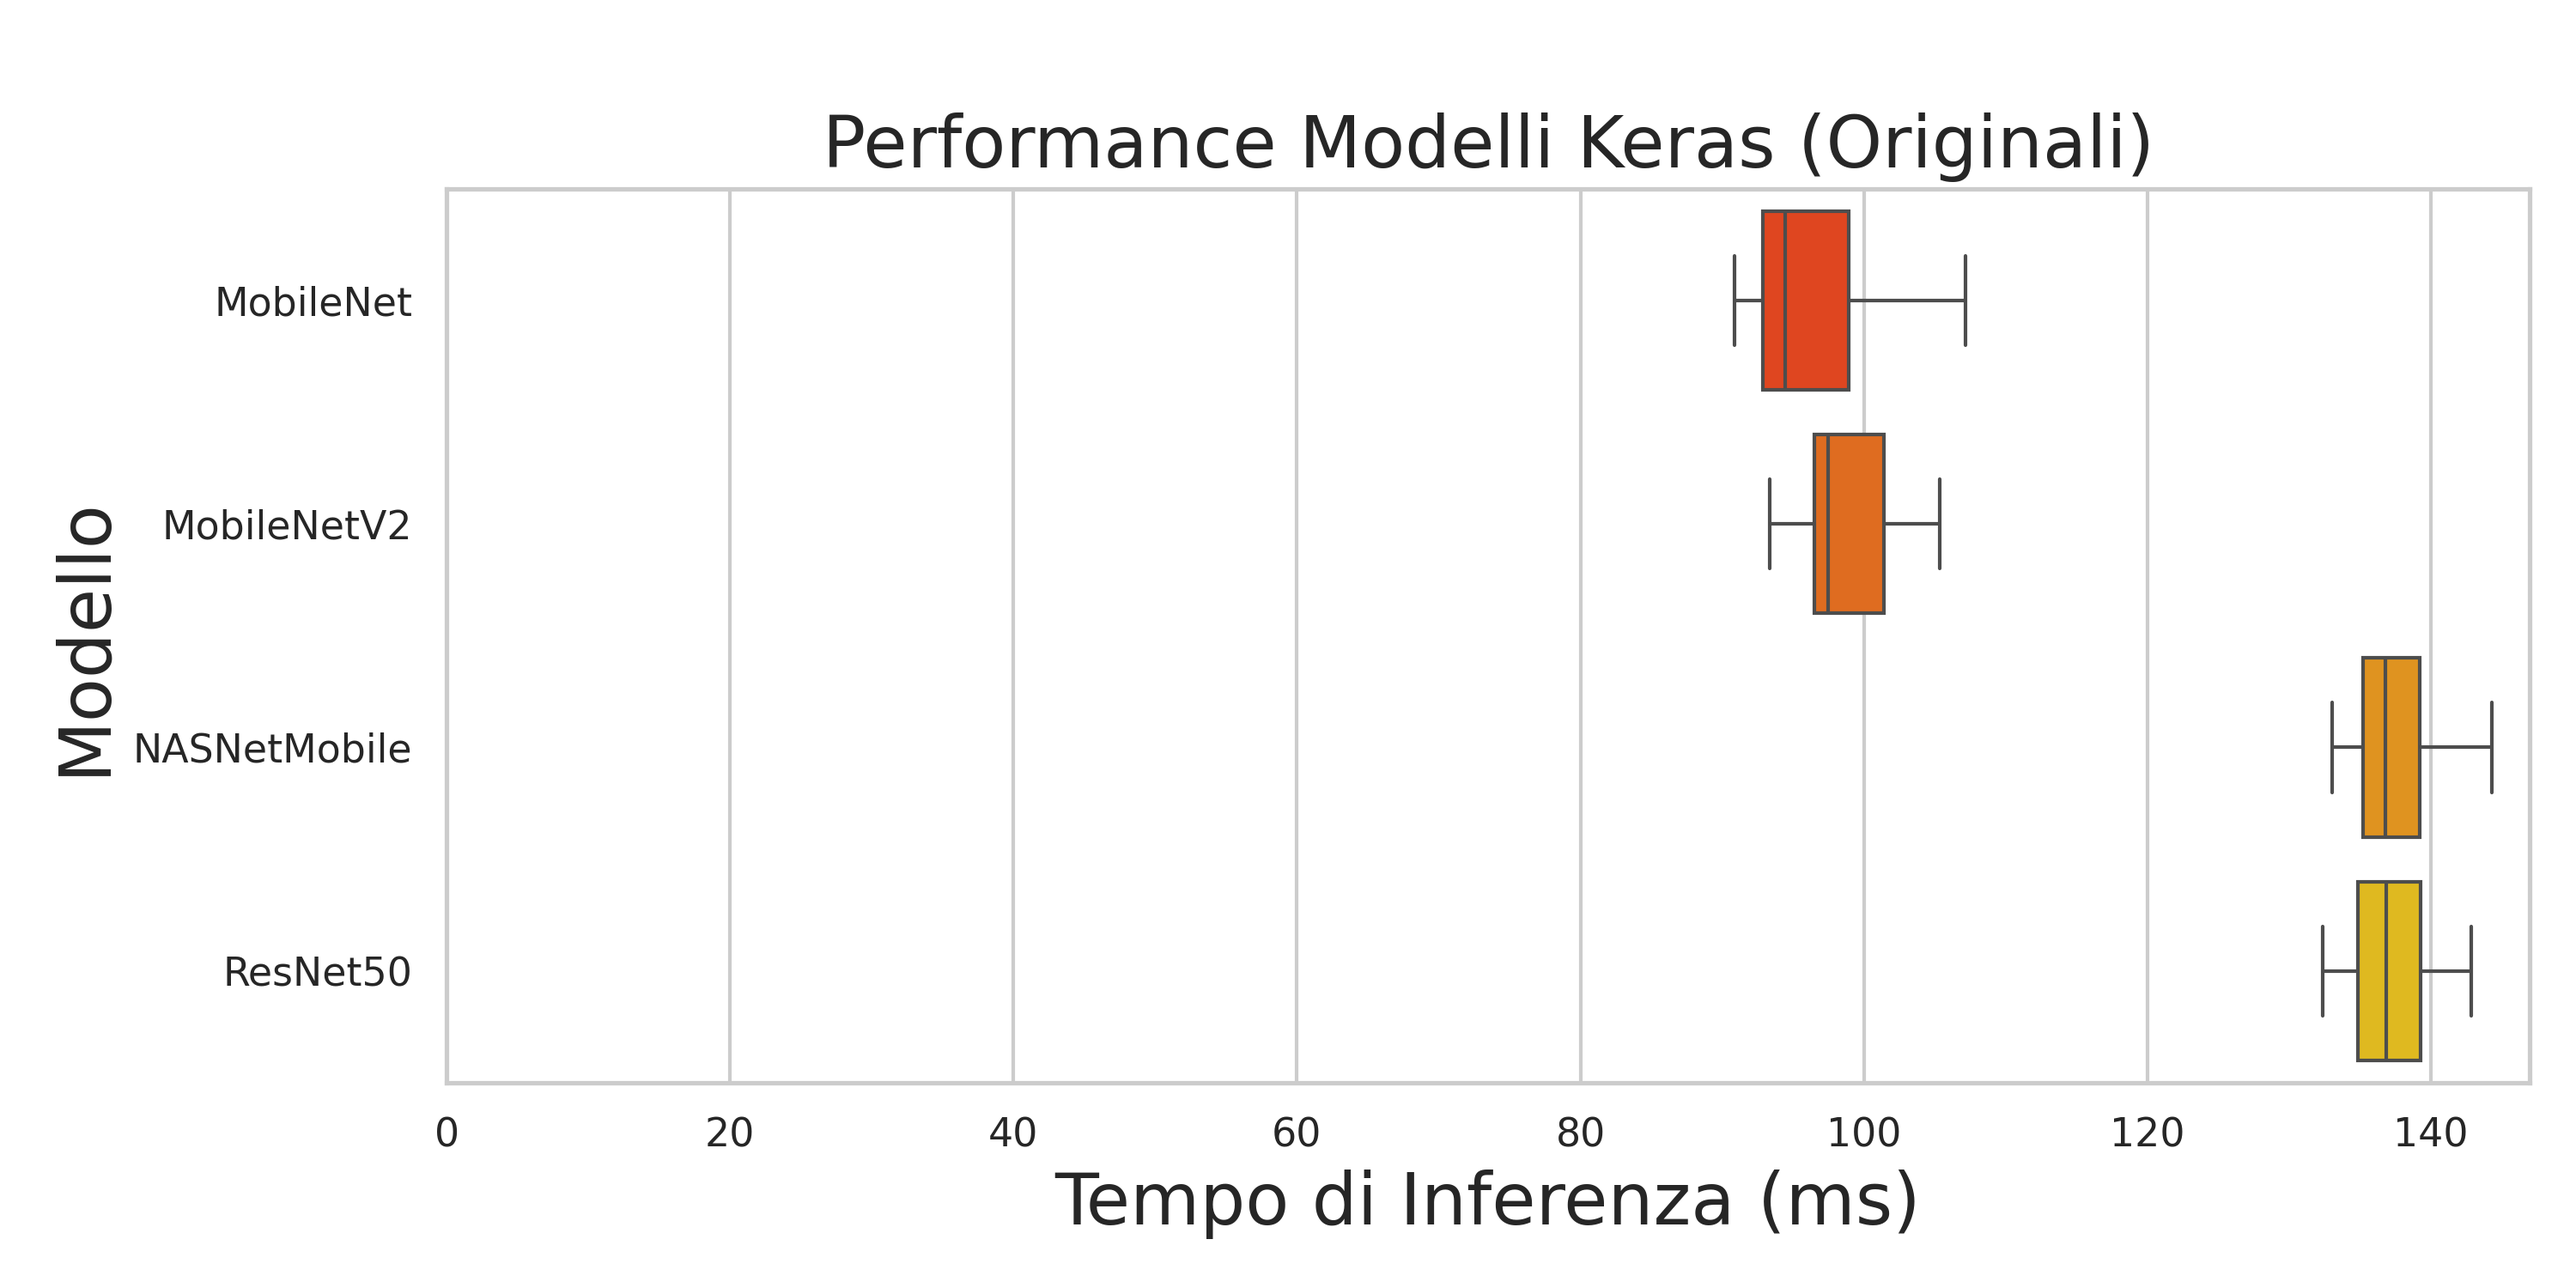
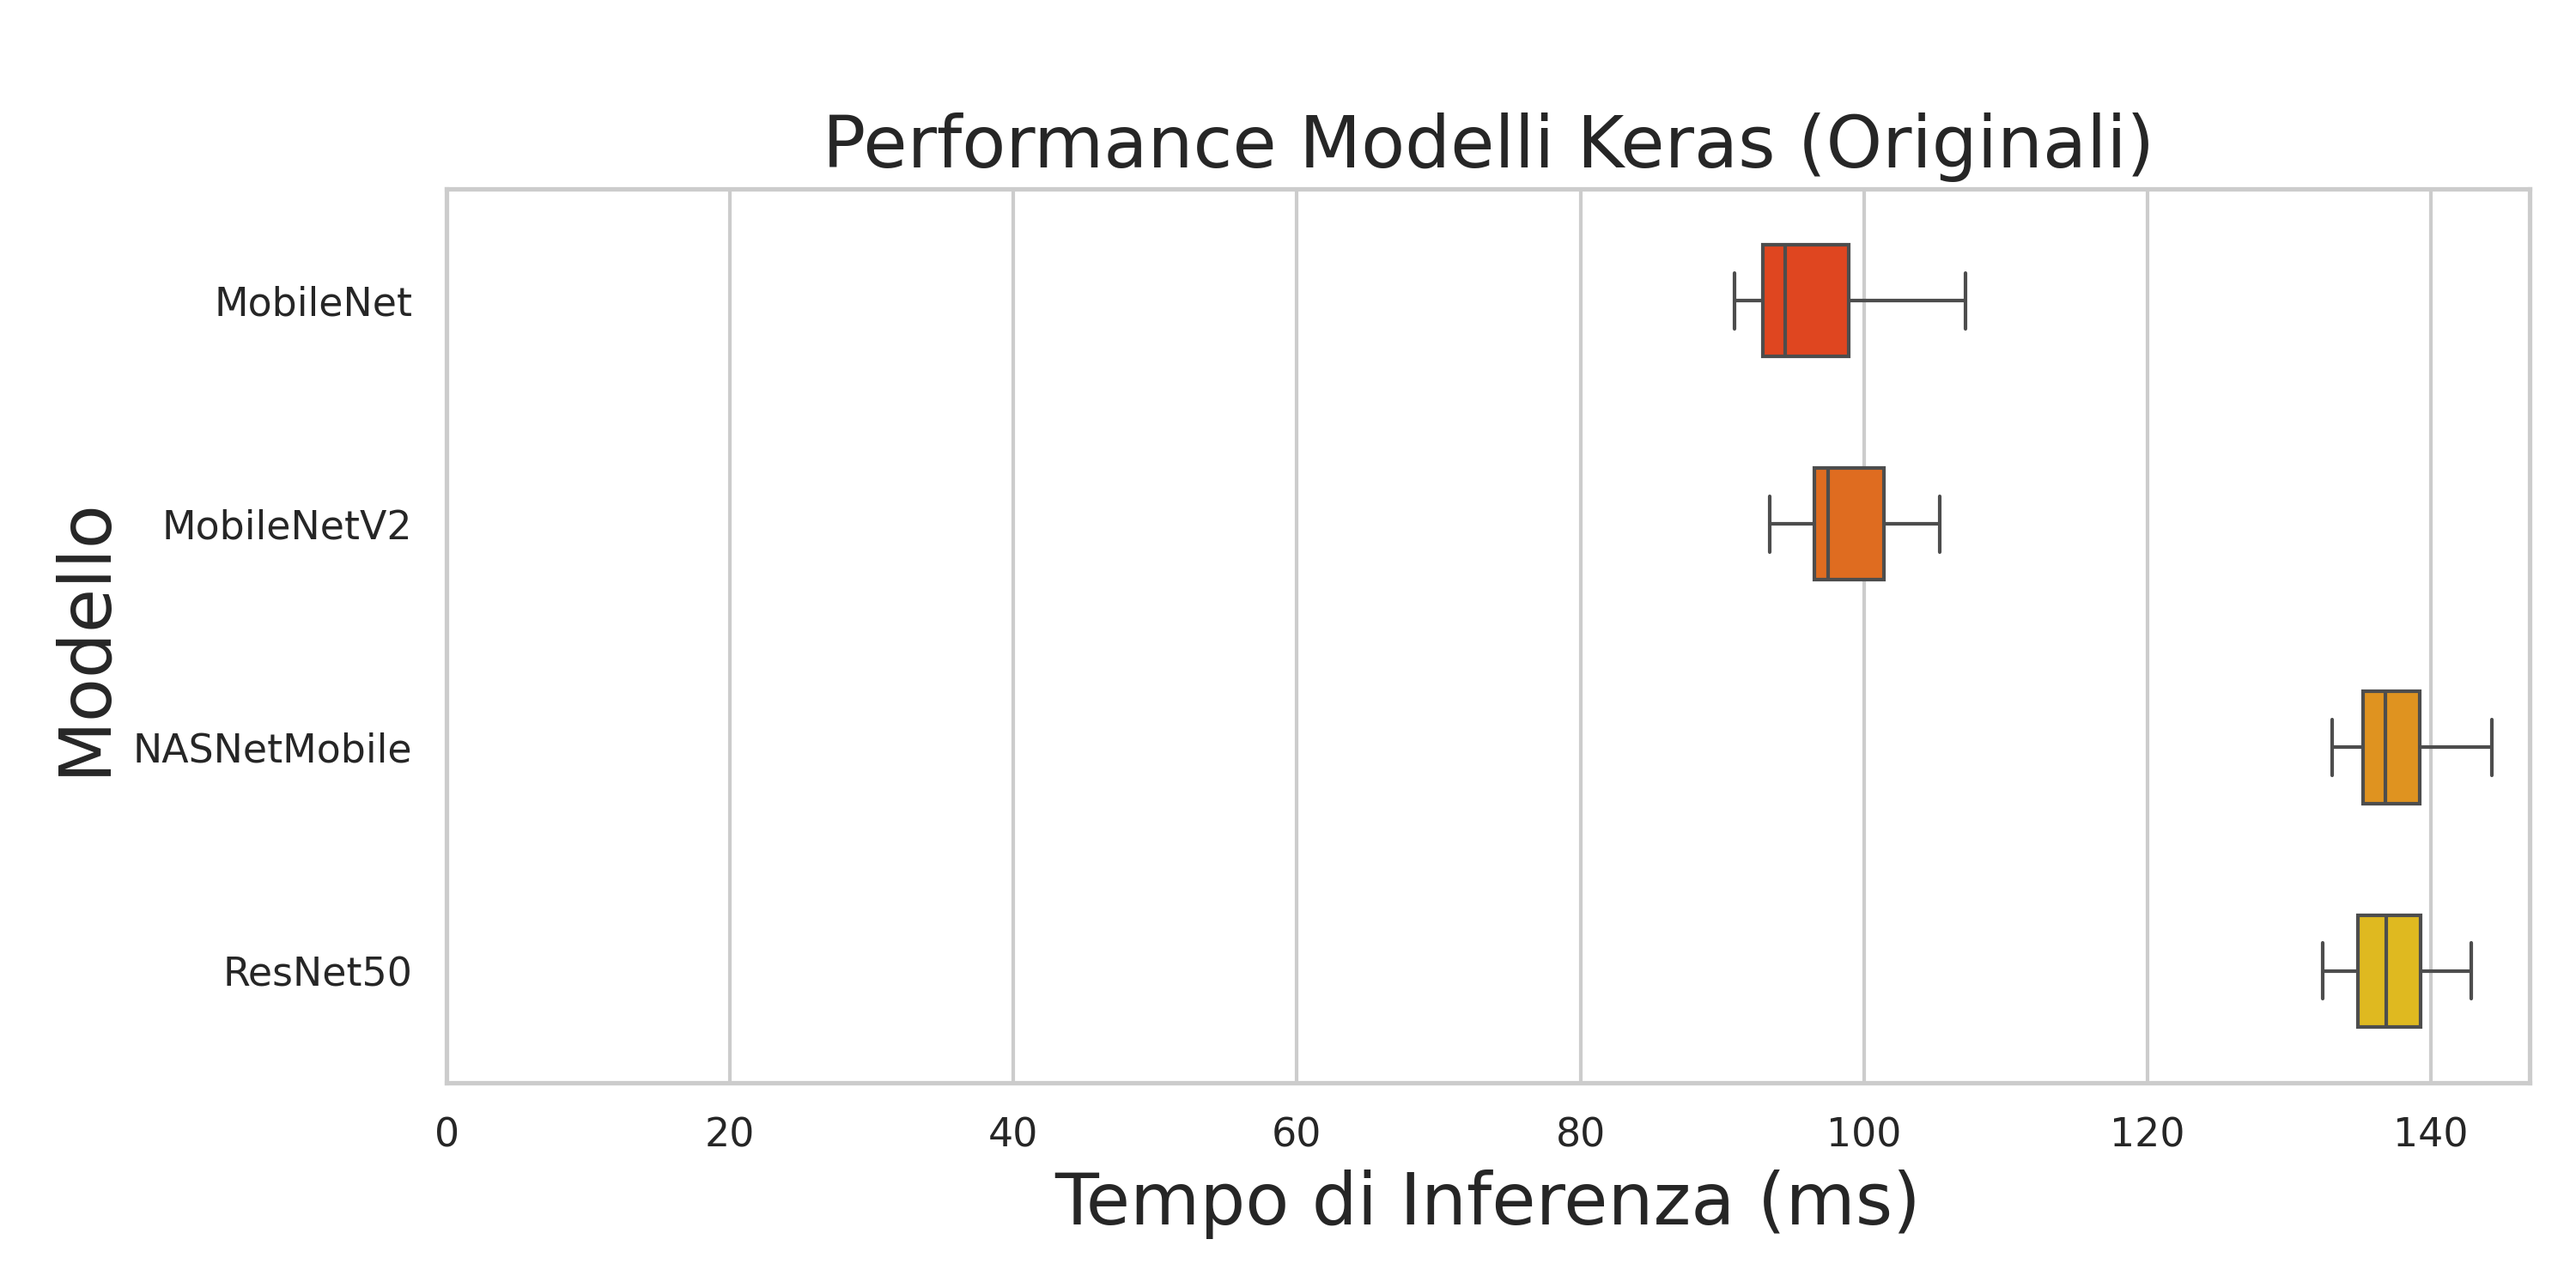
Updated some graphs

diff --git a/benchmark/plot_benchmark.py b/benchmark/plot_benchmark.py
@@ -113,7 +113,7 @@ def create_all_benchmark_plots(json_path: str, output_prefix: str):
 
     # --- 4. Creazione Grafico 3: Combinato ---
     print("Creazione grafico combinato...")
-    fig_combined, axes = plt.subplots(1, 2, figsize=(20, 7))
+    fig_combined, axes = plt.subplots(1, 2, figsize=(20, 5))
     fig_combined.suptitle(main_title, fontsize=20)
     
     create_single_boxplot(axes[1], df_keras, "Performance Modelli Keras (Originali)", "autumn")
@@ -159,4 +159,4 @@ if __name__ == '__main__':
 
 # Esempio di utilizzo:
 # python benchmark/plot_benchmark.py benchmark/benchmark_results/benchmark_results_models_1108_on_WSL.json --prefix benchmark/benchmark_results_grafici/benchmark_results_WSL
-# python benchmark/plot_benchmark.py benchmark/benchmark_results/benchmark_results_models_1108_on_RaspPi5.json --prefix benchmark/benchmark_results_grafici/benchmark_results_Pi5
+# python benchmark/plot_benchmark.py benchmark/benchmark_results/benchmark_results_models_1108_on_RaspPi5.json --prefix benchmark/benchmark_results_grafici/new_benchmark_results_Pi5

diff --git a/calculate_performance_variation.py b/calculate_performance_variation.py
@@ -15,8 +15,8 @@ def round_values_recursively(data: Any) -> Any:
          # Se è una lista, applica la ricorsione a ogni suo elemento
         return [round_values_recursively(item) for item in data]
     elif isinstance(data, float):
-        # Se è un float, arrotondalo a 2 cifre decimali
-        return round(data, 2)
+        # Se è un float, arrotondalo a 4 cifre decimali
+        return round(data, 4)
     else:
         # Per tutti gli altri tipi (int, str, etc.), restituisci il valore com'è
         return data
